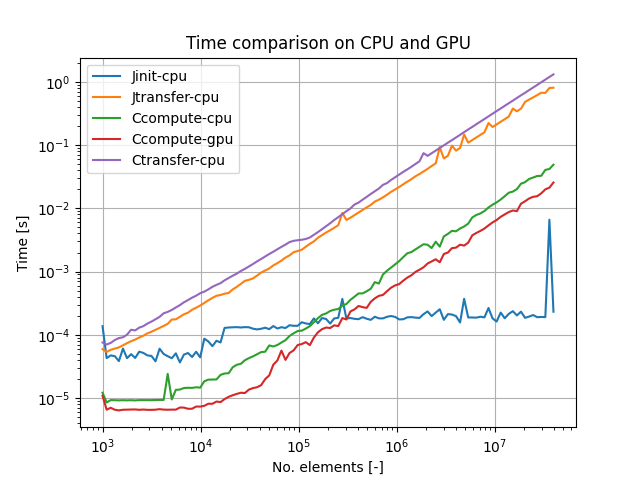
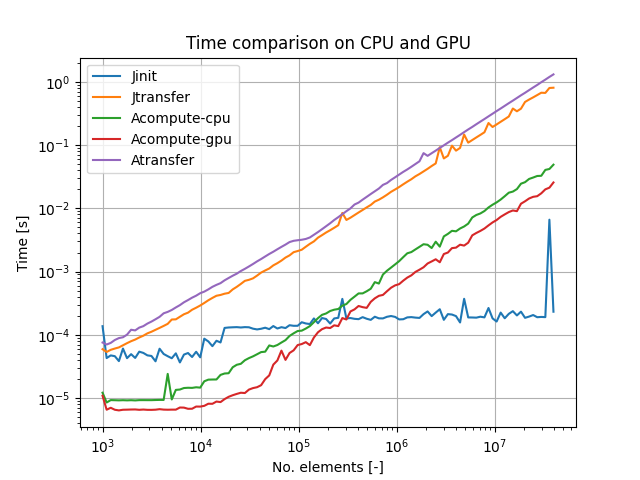
L4

Changed region(s): [[0.1875, 0.1875, 0.375, 0.3438], [0.25, 0.1562, 0.2812, 0.1875]]

diff --git a/L4/plots.py b/L4/plots.py
@@ -185,7 +185,7 @@ plt.plot(N, column(test_data["CPUTIME"], 20))
 plt.grid()
 plt.ylabel("Time [s]")
 plt.xlabel("No. elements [-]")
-plt.legend(["Jinit-cpu", "Jtransfer-cpu", "Ccompute-cpu", "Ccompute-gpu", "Ctransfer-cpu"])
+plt.legend(["Jinit", "Jtransfer", "Acompute-cpu", "Acompute-gpu", "Atransfer"])
 plt.title("Time comparison on CPU and GPU")
 plt.savefig("T.png")
 
